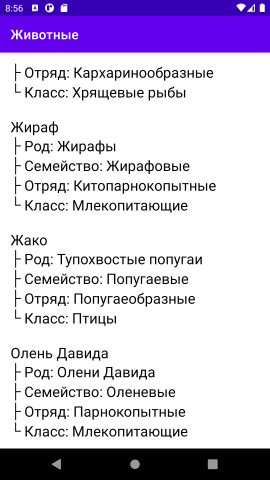
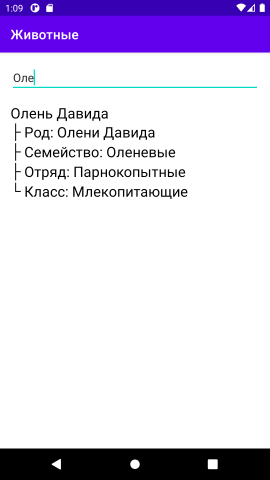
Add search

diff --git a/app/src/main/java/kz/gvsx/room/MainActivity.java b/app/src/main/java/kz/gvsx/room/MainActivity.java
@@ -3,6 +3,9 @@ package kz.gvsx.room;
 import android.content.Context;
 import android.content.SharedPreferences;
 import android.os.Bundle;
+import android.text.Editable;
+import android.text.TextWatcher;
+import android.widget.EditText;
 import android.widget.TextView;
 
 import androidx.appcompat.app.AppCompatActivity;
@@ -19,7 +22,6 @@ public class MainActivity extends AppCompatActivity {
     // Строка, по которой форматируется отображение данных по животному из БД.
     private static final String ANIMAL_FORMAT = "%s\n├ Род: %s\n├ Семейство: %s\n├ Отряд: %s\n└ Класс: %s\n\n";
 
-    private AppDatabase db;
     private AnimalDao animalDao;
     private TextView textView;
 
@@ -28,10 +30,11 @@ public class MainActivity extends AppCompatActivity {
         super.onCreate(savedInstanceState);
         setContentView(R.layout.activity_main);
 
-        db = AppDatabase.getInstance(getApplicationContext());
+        AppDatabase db = AppDatabase.getInstance(getApplicationContext());
         animalDao = db.animalDao();
 
         textView = findViewById(R.id.textView);
+        EditText searchField = findViewById(R.id.editTextSearchField);
 
         // Проверяем заполнена ли БД, если нет, то добавляем строки.
         SharedPreferences sharedPref = this.getPreferences(Context.MODE_PRIVATE);
@@ -43,9 +46,33 @@ public class MainActivity extends AppCompatActivity {
             editor.apply();
         }
 
+        searchField.addTextChangedListener(new TextWatcher() {
+            @Override
+            public void beforeTextChanged(CharSequence charSequence, int i, int i1, int i2) {
+            }
+
+            @Override
+            public void onTextChanged(CharSequence charSequence, int i, int i1, int i2) {
+            }
+
+            @Override
+            public void afterTextChanged(Editable editable) {
+                loadAnimals(editable.toString());
+            }
+        });
+
+        loadAnimals("");
+    }
+
+    private void loadAnimals(String query) {
         // Запускаем отдельный поток, в котором получаем данные из БД.
         Executors.newSingleThreadExecutor().execute(() -> {
-            List<Animal> animals = animalDao.getAll();
+            List<Animal> animals;
+            if (query.isEmpty()) {
+                animals = animalDao.getAll();
+            } else {
+                animals = animalDao.search(query.toLowerCase());
+            }
             // Обновляем textView в основном потоке
             runOnUiThread(() -> textView.setText(formatList(animals)));
         });

diff --git a/app/src/main/java/kz/gvsx/room/database/AnimalDao.java b/app/src/main/java/kz/gvsx/room/database/AnimalDao.java
@@ -8,8 +8,15 @@ import java.util.List;
 
 @Dao
 public interface AnimalDao {
-    @Query("SELECT * FROM animal")
+    @Query("SELECT * FROM animals")
     List<Animal> getAll();
+
+    @Query("SELECT * FROM animals WHERE LOWER(name) LIKE '%' || :query || '%'" +
+            "OR LOWER(genus) LIKE '%' || :query || '%'" +
+            "OR LOWER(family) LIKE '%' || :query || '%'" +
+            "OR LOWER(`order`) LIKE '%' || :query || '%'" +
+            "OR LOWER(class) LIKE '%' || :query || '%'")
+    List<Animal> search(String query);
 
     @Insert
     void insert(Animal animal);

diff --git a/app/src/main/java/kz/gvsx/room/database/AppDatabase.java b/app/src/main/java/kz/gvsx/room/database/AppDatabase.java
@@ -16,6 +16,7 @@ public abstract class AppDatabase extends RoomDatabase {
                 if (INSTANCE == null) {
                     INSTANCE = Room.databaseBuilder(context.getApplicationContext(),
                             AppDatabase.class, "animals.db")
+                            .fallbackToDestructiveMigration()
                             .build();
                 }
             }

diff --git a/app/src/main/java/kz/gvsx/room/database/Animal.java b/app/src/main/java/kz/gvsx/room/database/Animal.java
@@ -5,7 +5,7 @@ import androidx.room.ColumnInfo;
 import androidx.room.Entity;
 import androidx.room.PrimaryKey;
 
-@Entity
+@Entity(tableName = "animals")
 public class Animal {
     @PrimaryKey(autoGenerate = true)
     public int id = 0;
